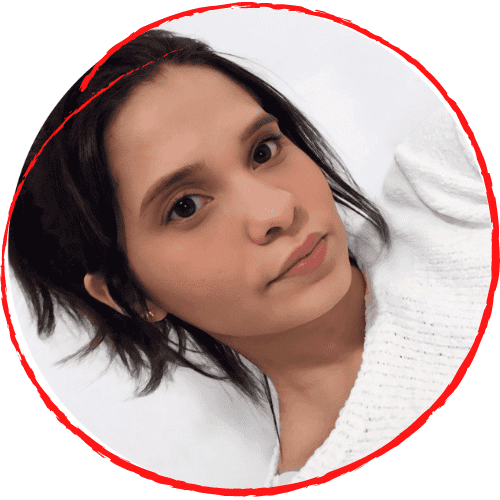
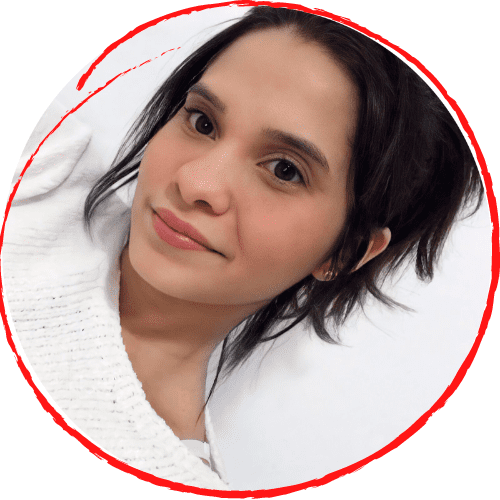
Add js and examples projects

diff --git a/js/isotope.pkgd.min.js b/js/isotope.pkgd.min.js
@@ -1,0 +1,12 @@
+/*!
+ * Isotope PACKAGED v3.0.6
+ *
+ * Licensed GPLv3 for open source use
+ * or Isotope Commercial License for commercial use
+ *
+ * https://isotope.metafizzy.co
+ * Copyright 2010-2018 Metafizzy
+ */
+
+!function(t,e){"function"==typeof define&&define.amd?define("jquery-bridget/jquery-bridget",["jquery"],function(i){return e(t,i)}):"object"==typeof module&&module.exports?module.exports=e(t,require("jquery")):t.jQueryBridget=e(t,t.jQuery)}(window,function(t,e){"use strict";function i(i,s,a){function u(t,e,o){var n,s="$()."+i+'("'+e+'")';return t.each(function(t,u){var h=a.data(u,i);if(!h)return void r(i+" not initialized. Cannot call methods, i.e. "+s);var d=h[e];if(!d||"_"==e.charAt(0))return void r(s+" is not a valid method");var l=d.apply(h,o);n=void 0===n?l:n}),void 0!==n?n:t}function h(t,e){t.each(function(t,o){var n=a.data(o,i);n?(n.option(e),n._init()):(n=new s(o,e),a.data(o,i,n))})}a=a||e||t.jQuery,a&&(s.prototype.option||(s.prototype.option=function(t){a.isPlainObject(t)&&(this.options=a.extend(!0,this.options,t))}),a.fn[i]=function(t){if("string"==typeof t){var e=n.call(arguments,1);return u(this,t,e)}return h(this,t),this},o(a))}function o(t){!t||t&&t.bridget||(t.bridget=i)}var n=Array.prototype.slice,s=t.console,r="undefined"==typeof s?function(){}:function(t){s.error(t)};return o(e||t.jQuery),i}),function(t,e){"function"==typeof define&&define.amd?define("ev-emitter/ev-emitter",e):"object"==typeof module&&module.exports?module.exports=e():t.EvEmitter=e()}("undefined"!=typeof window?window:this,function(){function t(){}var e=t.prototype;return e.on=function(t,e){if(t&&e){var i=this._events=this._events||{},o=i[t]=i[t]||[];return o.indexOf(e)==-1&&o.push(e),this}},e.once=function(t,e){if(t&&e){this.on(t,e);var i=this._onceEvents=this._onceEvents||{},o=i[t]=i[t]||{};return o[e]=!0,this}},e.off=function(t,e){var i=this._events&&this._events[t];if(i&&i.length){var o=i.indexOf(e);return o!=-1&&i.splice(o,1),this}},e.emitEvent=function(t,e){var i=this._events&&this._events[t];if(i&&i.length){i=i.slice(0),e=e||[];for(var o=this._onceEvents&&this._onceEvents[t],n=0;n<i.length;n++){var s=i[n],r=o&&o[s];r&&(this.off(t,s),delete o[s]),s.apply(this,e)}return this}},e.allOff=function(){delete this._events,delete this._onceEvents},t}),function(t,e){"function"==typeof define&&define.amd?define("get-size/get-size",e):"object"==typeof module&&module.exports?module.exports=e():t.getSize=e()}(window,function(){"use strict";function t(t){var e=parseFloat(t),i=t.indexOf("%")==-1&&!isNaN(e);return i&&e}function e(){}function i(){for(var t={width:0,height:0,innerWidth:0,innerHeight:0,outerWidth:0,outerHeight:0},e=0;e<h;e++){var i=u[e];t[i]=0}return t}function o(t){var e=getComputedStyle(t);return e||a("Style returned "+e+". Are you running this code in a hidden iframe on Firefox? See https://bit.ly/getsizebug1"),e}function n(){if(!d){d=!0;var e=document.createElement("div");e.style.width="200px",e.style.padding="1px 2px 3px 4px",e.style.borderStyle="solid",e.style.borderWidth="1px 2px 3px 4px",e.style.boxSizing="border-box";var i=document.body||document.documentElement;i.appendChild(e);var n=o(e);r=200==Math.round(t(n.width)),s.isBoxSizeOuter=r,i.removeChild(e)}}function s(e){if(n(),"string"==typeof e&&(e=document.querySelector(e)),e&&"object"==typeof e&&e.nodeType){var s=o(e);if("none"==s.display)return i();var a={};a.width=e.offsetWidth,a.height=e.offsetHeight;for(var d=a.isBorderBox="border-box"==s.boxSizing,l=0;l<h;l++){var f=u[l],c=s[f],m=parseFloat(c);a[f]=isNaN(m)?0:m}var p=a.paddingLeft+a.paddingRight,y=a.paddingTop+a.paddingBottom,g=a.marginLeft+a.marginRight,v=a.marginTop+a.marginBottom,_=a.borderLeftWidth+a.borderRightWidth,z=a.borderTopWidth+a.borderBottomWidth,I=d&&r,x=t(s.width);x!==!1&&(a.width=x+(I?0:p+_));var S=t(s.height);return S!==!1&&(a.height=S+(I?0:y+z)),a.innerWidth=a.width-(p+_),a.innerHeight=a.height-(y+z),a.outerWidth=a.width+g,a.outerHeight=a.height+v,a}}var r,a="undefined"==typeof console?e:function(t){console.error(t)},u=["paddingLeft","paddingRight","paddingTop","paddingBottom","marginLeft","marginRight","marginTop","marginBottom","borderLeftWidth","borderRightWidth","borderTopWidth","borderBottomWidth"],h=u.length,d=!1;return s}),function(t,e){"use strict";"function"==typeof define&&define.amd?define("desandro-matches-selector/matches-selector",e):"object"==typeof module&&module.exports?module.exports=e():t.matchesSelector=e()}(window,function(){"use strict";var t=function(){var t=window.Element.prototype;if(t.matches)return"matches";if(t.matchesSelector)return"matchesSelector";for(var e=["webkit","moz","ms","o"],i=0;i<e.length;i++){var o=e[i],n=o+"MatchesSelector";if(t[n])return n}}();return function(e,i){return e[t](i)}}),function(t,e){"function"==typeof define&&define.amd?define("fizzy-ui-utils/utils",["desandro-matches-selector/matches-selector"],function(i){return e(t,i)}):"object"==typeof module&&module.exports?module.exports=e(t,require("desandro-matches-selector")):t.fizzyUIUtils=e(t,t.matchesSelector)}(window,function(t,e){var i={};i.extend=function(t,e){for(var i in e)t[i]=e[i];return t},i.modulo=function(t,e){return(t%e+e)%e};var o=Array.prototype.slice;i.makeArray=function(t){if(Array.isArray(t))return t;if(null===t||void 0===t)return[];var e="object"==typeof t&&"number"==typeof t.length;return e?o.call(t):[t]},i.removeFrom=function(t,e){var i=t.indexOf(e);i!=-1&&t.splice(i,1)},i.getParent=function(t,i){for(;t.parentNode&&t!=document.body;)if(t=t.parentNode,e(t,i))return t},i.getQueryElement=function(t){return"string"==typeof t?document.querySelector(t):t},i.handleEvent=function(t){var e="on"+t.type;this[e]&&this[e](t)},i.filterFindElements=function(t,o){t=i.makeArray(t);var n=[];return t.forEach(function(t){if(t instanceof HTMLElement){if(!o)return void n.push(t);e(t,o)&&n.push(t);for(var i=t.querySelectorAll(o),s=0;s<i.length;s++)n.push(i[s])}}),n},i.debounceMethod=function(t,e,i){i=i||100;var o=t.prototype[e],n=e+"Timeout";t.prototype[e]=function(){var t=this[n];clearTimeout(t);var e=arguments,s=this;this[n]=setTimeout(function(){o.apply(s,e),delete s[n]},i)}},i.docReady=function(t){var e=document.readyState;"complete"==e||"interactive"==e?setTimeout(t):document.addEventListener("DOMContentLoaded",t)},i.toDashed=function(t){return t.replace(/(.)([A-Z])/g,function(t,e,i){return e+"-"+i}).toLowerCase()};var n=t.console;return i.htmlInit=function(e,o){i.docReady(function(){var s=i.toDashed(o),r="data-"+s,a=document.querySelectorAll("["+r+"]"),u=document.querySelectorAll(".js-"+s),h=i.makeArray(a).concat(i.makeArray(u)),d=r+"-options",l=t.jQuery;h.forEach(function(t){var i,s=t.getAttribute(r)||t.getAttribute(d);try{i=s&&JSON.parse(s)}catch(a){return void(n&&n.error("Error parsing "+r+" on "+t.className+": "+a))}var u=new e(t,i);l&&l.data(t,o,u)})})},i}),function(t,e){"function"==typeof define&&define.amd?define("outlayer/item",["ev-emitter/ev-emitter","get-size/get-size"],e):"object"==typeof module&&module.exports?module.exports=e(require("ev-emitter"),require("get-size")):(t.Outlayer={},t.Outlayer.Item=e(t.EvEmitter,t.getSize))}(window,function(t,e){"use strict";function i(t){for(var e in t)return!1;return e=null,!0}function o(t,e){t&&(this.element=t,this.layout=e,this.position={x:0,y:0},this._create())}function n(t){return t.replace(/([A-Z])/g,function(t){return"-"+t.toLowerCase()})}var s=document.documentElement.style,r="string"==typeof s.transition?"transition":"WebkitTransition",a="string"==typeof s.transform?"transform":"WebkitTransform",u={WebkitTransition:"webkitTransitionEnd",transition:"transitionend"}[r],h={transform:a,transition:r,transitionDuration:r+"Duration",transitionProperty:r+"Property",transitionDelay:r+"Delay"},d=o.prototype=Object.create(t.prototype);d.constructor=o,d._create=function(){this._transn={ingProperties:{},clean:{},onEnd:{}},this.css({position:"absolute"})},d.handleEvent=function(t){var e="on"+t.type;this[e]&&this[e](t)},d.getSize=function(){this.size=e(this.element)},d.css=function(t){var e=this.element.style;for(var i in t){var o=h[i]||i;e[o]=t[i]}},d.getPosition=function(){var t=getComputedStyle(this.element),e=this.layout._getOption("originLeft"),i=this.layout._getOption("originTop"),o=t[e?"left":"right"],n=t[i?"top":"bottom"],s=parseFloat(o),r=parseFloat(n),a=this.layout.size;o.indexOf("%")!=-1&&(s=s/100*a.width),n.indexOf("%")!=-1&&(r=r/100*a.height),s=isNaN(s)?0:s,r=isNaN(r)?0:r,s-=e?a.paddingLeft:a.paddingRight,r-=i?a.paddingTop:a.paddingBottom,this.position.x=s,this.position.y=r},d.layoutPosition=function(){var t=this.layout.size,e={},i=this.layout._getOption("originLeft"),o=this.layout._getOption("originTop"),n=i?"paddingLeft":"paddingRight",s=i?"left":"right",r=i?"right":"left",a=this.position.x+t[n];e[s]=this.getXValue(a),e[r]="";var u=o?"paddingTop":"paddingBottom",h=o?"top":"bottom",d=o?"bottom":"top",l=this.position.y+t[u];e[h]=this.getYValue(l),e[d]="",this.css(e),this.emitEvent("layout",[this])},d.getXValue=function(t){var e=this.layout._getOption("horizontal");return this.layout.options.percentPosition&&!e?t/this.layout.size.width*100+"%":t+"px"},d.getYValue=function(t){var e=this.layout._getOption("horizontal");return this.layout.options.percentPosition&&e?t/this.layout.size.height*100+"%":t+"px"},d._transitionTo=function(t,e){this.getPosition();var i=this.position.x,o=this.position.y,n=t==this.position.x&&e==this.position.y;if(this.setPosition(t,e),n&&!this.isTransitioning)return void this.layoutPosition();var s=t-i,r=e-o,a={};a.transform=this.getTranslate(s,r),this.transition({to:a,onTransitionEnd:{transform:this.layoutPosition},isCleaning:!0})},d.getTranslate=function(t,e){var i=this.layout._getOption("originLeft"),o=this.layout._getOption("originTop");return t=i?t:-t,e=o?e:-e,"translate3d("+t+"px, "+e+"px, 0)"},d.goTo=function(t,e){this.setPosition(t,e),this.layoutPosition()},d.moveTo=d._transitionTo,d.setPosition=function(t,e){this.position.x=parseFloat(t),this.position.y=parseFloat(e)},d._nonTransition=function(t){this.css(t.to),t.isCleaning&&this._removeStyles(t.to);for(var e in t.onTransitionEnd)t.onTransitionEnd[e].call(this)},d.transition=function(t){if(!parseFloat(this.layout.options.transitionDuration))return void this._nonTransition(t);var e=this._transn;for(var i in t.onTransitionEnd)e.onEnd[i]=t.onTransitionEnd[i];for(i in t.to)e.ingProperties[i]=!0,t.isCleaning&&(e.clean[i]=!0);if(t.from){this.css(t.from);var o=this.element.offsetHeight;o=null}this.enableTransition(t.to),this.css(t.to),this.isTransitioning=!0};var l="opacity,"+n(a);d.enableTransition=function(){if(!this.isTransitioning){var t=this.layout.options.transitionDuration;t="number"==typeof t?t+"ms":t,this.css({transitionProperty:l,transitionDuration:t,transitionDelay:this.staggerDelay||0}),this.element.addEventListener(u,this,!1)}},d.onwebkitTransitionEnd=function(t){this.ontransitionend(t)},d.onotransitionend=function(t){this.ontransitionend(t)};var f={"-webkit-transform":"transform"};d.ontransitionend=function(t){if(t.target===this.element){var e=this._transn,o=f[t.propertyName]||t.propertyName;if(delete e.ingProperties[o],i(e.ingProperties)&&this.disableTransition(),o in e.clean&&(this.element.style[t.propertyName]="",delete e.clean[o]),o in e.onEnd){var n=e.onEnd[o];n.call(this),delete e.onEnd[o]}this.emitEvent("transitionEnd",[this])}},d.disableTransition=function(){this.removeTransitionStyles(),this.element.removeEventListener(u,this,!1),this.isTransitioning=!1},d._removeStyles=function(t){var e={};for(var i in t)e[i]="";this.css(e)};var c={transitionProperty:"",transitionDuration:"",transitionDelay:""};return d.removeTransitionStyles=function(){this.css(c)},d.stagger=function(t){t=isNaN(t)?0:t,this.staggerDelay=t+"ms"},d.removeElem=function(){this.element.parentNode.removeChild(this.element),this.css({display:""}),this.emitEvent("remove",[this])},d.remove=function(){return r&&parseFloat(this.layout.options.transitionDuration)?(this.once("transitionEnd",function(){this.removeElem()}),void this.hide()):void this.removeElem()},d.reveal=function(){delete this.isHidden,this.css({display:""});var t=this.layout.options,e={},i=this.getHideRevealTransitionEndProperty("visibleStyle");e[i]=this.onRevealTransitionEnd,this.transition({from:t.hiddenStyle,to:t.visibleStyle,isCleaning:!0,onTransitionEnd:e})},d.onRevealTransitionEnd=function(){this.isHidden||this.emitEvent("reveal")},d.getHideRevealTransitionEndProperty=function(t){var e=this.layout.options[t];if(e.opacity)return"opacity";for(var i in e)return i},d.hide=function(){this.isHidden=!0,this.css({display:""});var t=this.layout.options,e={},i=this.getHideRevealTransitionEndProperty("hiddenStyle");e[i]=this.onHideTransitionEnd,this.transition({from:t.visibleStyle,to:t.hiddenStyle,isCleaning:!0,onTransitionEnd:e})},d.onHideTransitionEnd=function(){this.isHidden&&(this.css({display:"none"}),this.emitEvent("hide"))},d.destroy=function(){this.css({position:"",left:"",right:"",top:"",bottom:"",transition:"",transform:""})},o}),function(t,e){"use strict";"function"==typeof define&&define.amd?define("outlayer/outlayer",["ev-emitter/ev-emitter","get-size/get-size","fizzy-ui-utils/utils","./item"],function(i,o,n,s){return e(t,i,o,n,s)}):"object"==typeof module&&module.exports?module.exports=e(t,require("ev-emitter"),require("get-size"),require("fizzy-ui-utils"),require("./item")):t.Outlayer=e(t,t.EvEmitter,t.getSize,t.fizzyUIUtils,t.Outlayer.Item)}(window,function(t,e,i,o,n){"use strict";function s(t,e){var i=o.getQueryElement(t);if(!i)return void(u&&u.error("Bad element for "+this.constructor.namespace+": "+(i||t)));this.element=i,h&&(this.$element=h(this.element)),this.options=o.extend({},this.constructor.defaults),this.option(e);var n=++l;this.element.outlayerGUID=n,f[n]=this,this._create();var s=this._getOption("initLayout");s&&this.layout()}function r(t){function e(){t.apply(this,arguments)}return e.prototype=Object.create(t.prototype),e.prototype.constructor=e,e}function a(t){if("number"==typeof t)return t;var e=t.match(/(^\d*\.?\d*)(\w*)/),i=e&&e[1],o=e&&e[2];if(!i.length)return 0;i=parseFloat(i);var n=m[o]||1;return i*n}var u=t.console,h=t.jQuery,d=function(){},l=0,f={};s.namespace="outlayer",s.Item=n,s.defaults={containerStyle:{position:"relative"},initLayout:!0,originLeft:!0,originTop:!0,resize:!0,resizeContainer:!0,transitionDuration:"0.4s",hiddenStyle:{opacity:0,transform:"scale(0.001)"},visibleStyle:{opacity:1,transform:"scale(1)"}};var c=s.prototype;o.extend(c,e.prototype),c.option=function(t){o.extend(this.options,t)},c._getOption=function(t){var e=this.constructor.compatOptions[t];return e&&void 0!==this.options[e]?this.options[e]:this.options[t]},s.compatOptions={initLayout:"isInitLayout",horizontal:"isHorizontal",layoutInstant:"isLayoutInstant",originLeft:"isOriginLeft",originTop:"isOriginTop",resize:"isResizeBound",resizeContainer:"isResizingContainer"},c._create=function(){this.reloadItems(),this.stamps=[],this.stamp(this.options.stamp),o.extend(this.element.style,this.options.containerStyle);var t=this._getOption("resize");t&&this.bindResize()},c.reloadItems=function(){this.items=this._itemize(this.element.children)},c._itemize=function(t){for(var e=this._filterFindItemElements(t),i=this.constructor.Item,o=[],n=0;n<e.length;n++){var s=e[n],r=new i(s,this);o.push(r)}return o},c._filterFindItemElements=function(t){return o.filterFindElements(t,this.options.itemSelector)},c.getItemElements=function(){return this.items.map(function(t){return t.element})},c.layout=function(){this._resetLayout(),this._manageStamps();var t=this._getOption("layoutInstant"),e=void 0!==t?t:!this._isLayoutInited;this.layoutItems(this.items,e),this._isLayoutInited=!0},c._init=c.layout,c._resetLayout=function(){this.getSize()},c.getSize=function(){this.size=i(this.element)},c._getMeasurement=function(t,e){var o,n=this.options[t];n?("string"==typeof n?o=this.element.querySelector(n):n instanceof HTMLElement&&(o=n),this[t]=o?i(o)[e]:n):this[t]=0},c.layoutItems=function(t,e){t=this._getItemsForLayout(t),this._layoutItems(t,e),this._postLayout()},c._getItemsForLayout=function(t){return t.filter(function(t){return!t.isIgnored})},c._layoutItems=function(t,e){if(this._emitCompleteOnItems("layout",t),t&&t.length){var i=[];t.forEach(function(t){var o=this._getItemLayoutPosition(t);o.item=t,o.isInstant=e||t.isLayoutInstant,i.push(o)},this),this._processLayoutQueue(i)}},c._getItemLayoutPosition=function(){return{x:0,y:0}},c._processLayoutQueue=function(t){this.updateStagger(),t.forEach(function(t,e){this._positionItem(t.item,t.x,t.y,t.isInstant,e)},this)},c.updateStagger=function(){var t=this.options.stagger;return null===t||void 0===t?void(this.stagger=0):(this.stagger=a(t),this.stagger)},c._positionItem=function(t,e,i,o,n){o?t.goTo(e,i):(t.stagger(n*this.stagger),t.moveTo(e,i))},c._postLayout=function(){this.resizeContainer()},c.resizeContainer=function(){var t=this._getOption("resizeContainer");if(t){var e=this._getContainerSize();e&&(this._setContainerMeasure(e.width,!0),this._setContainerMeasure(e.height,!1))}},c._getContainerSize=d,c._setContainerMeasure=function(t,e){if(void 0!==t){var i=this.size;i.isBorderBox&&(t+=e?i.paddingLeft+i.paddingRight+i.borderLeftWidth+i.borderRightWidth:i.paddingBottom+i.paddingTop+i.borderTopWidth+i.borderBottomWidth),t=Math.max(t,0),this.element.style[e?"width":"height"]=t+"px"}},c._emitCompleteOnItems=function(t,e){function i(){n.dispatchEvent(t+"Complete",null,[e])}function o(){r++,r==s&&i()}var n=this,s=e.length;if(!e||!s)return void i();var r=0;e.forEach(function(e){e.once(t,o)})},c.dispatchEvent=function(t,e,i){var o=e?[e].concat(i):i;if(this.emitEvent(t,o),h)if(this.$element=this.$element||h(this.element),e){var n=h.Event(e);n.type=t,this.$element.trigger(n,i)}else this.$element.trigger(t,i)},c.ignore=function(t){var e=this.getItem(t);e&&(e.isIgnored=!0)},c.unignore=function(t){var e=this.getItem(t);e&&delete e.isIgnored},c.stamp=function(t){t=this._find(t),t&&(this.stamps=this.stamps.concat(t),t.forEach(this.ignore,this))},c.unstamp=function(t){t=this._find(t),t&&t.forEach(function(t){o.removeFrom(this.stamps,t),this.unignore(t)},this)},c._find=function(t){if(t)return"string"==typeof t&&(t=this.element.querySelectorAll(t)),t=o.makeArray(t)},c._manageStamps=function(){this.stamps&&this.stamps.length&&(this._getBoundingRect(),this.stamps.forEach(this._manageStamp,this))},c._getBoundingRect=function(){var t=this.element.getBoundingClientRect(),e=this.size;this._boundingRect={left:t.left+e.paddingLeft+e.borderLeftWidth,top:t.top+e.paddingTop+e.borderTopWidth,right:t.right-(e.paddingRight+e.borderRightWidth),bottom:t.bottom-(e.paddingBottom+e.borderBottomWidth)}},c._manageStamp=d,c._getElementOffset=function(t){var e=t.getBoundingClientRect(),o=this._boundingRect,n=i(t),s={left:e.left-o.left-n.marginLeft,top:e.top-o.top-n.marginTop,right:o.right-e.right-n.marginRight,bottom:o.bottom-e.bottom-n.marginBottom};return s},c.handleEvent=o.handleEvent,c.bindResize=function(){t.addEventListener("resize",this),this.isResizeBound=!0},c.unbindResize=function(){t.removeEventListener("resize",this),this.isResizeBound=!1},c.onresize=function(){this.resize()},o.debounceMethod(s,"onresize",100),c.resize=function(){this.isResizeBound&&this.needsResizeLayout()&&this.layout()},c.needsResizeLayout=function(){var t=i(this.element),e=this.size&&t;return e&&t.innerWidth!==this.size.innerWidth},c.addItems=function(t){var e=this._itemize(t);return e.length&&(this.items=this.items.concat(e)),e},c.appended=function(t){var e=this.addItems(t);e.length&&(this.layoutItems(e,!0),this.reveal(e))},c.prepended=function(t){var e=this._itemize(t);if(e.length){var i=this.items.slice(0);this.items=e.concat(i),this._resetLayout(),this._manageStamps(),this.layoutItems(e,!0),this.reveal(e),this.layoutItems(i)}},c.reveal=function(t){if(this._emitCompleteOnItems("reveal",t),t&&t.length){var e=this.updateStagger();t.forEach(function(t,i){t.stagger(i*e),t.reveal()})}},c.hide=function(t){if(this._emitCompleteOnItems("hide",t),t&&t.length){var e=this.updateStagger();t.forEach(function(t,i){t.stagger(i*e),t.hide()})}},c.revealItemElements=function(t){var e=this.getItems(t);this.reveal(e)},c.hideItemElements=function(t){var e=this.getItems(t);this.hide(e)},c.getItem=function(t){for(var e=0;e<this.items.length;e++){var i=this.items[e];if(i.element==t)return i}},c.getItems=function(t){t=o.makeArray(t);var e=[];return t.forEach(function(t){var i=this.getItem(t);i&&e.push(i)},this),e},c.remove=function(t){var e=this.getItems(t);this._emitCompleteOnItems("remove",e),e&&e.length&&e.forEach(function(t){t.remove(),o.removeFrom(this.items,t)},this)},c.destroy=function(){var t=this.element.style;t.height="",t.position="",t.width="",this.items.forEach(function(t){t.destroy()}),this.unbindResize();var e=this.element.outlayerGUID;delete f[e],delete this.element.outlayerGUID,h&&h.removeData(this.element,this.constructor.namespace)},s.data=function(t){t=o.getQueryElement(t);var e=t&&t.outlayerGUID;return e&&f[e]},s.create=function(t,e){var i=r(s);return i.defaults=o.extend({},s.defaults),o.extend(i.defaults,e),i.compatOptions=o.extend({},s.compatOptions),i.namespace=t,i.data=s.data,i.Item=r(n),o.htmlInit(i,t),h&&h.bridget&&h.bridget(t,i),i};var m={ms:1,s:1e3};return s.Item=n,s}),function(t,e){"function"==typeof define&&define.amd?define("isotope-layout/js/item",["outlayer/outlayer"],e):"object"==typeof module&&module.exports?module.exports=e(require("outlayer")):(t.Isotope=t.Isotope||{},t.Isotope.Item=e(t.Outlayer))}(window,function(t){"use strict";function e(){t.Item.apply(this,arguments)}var i=e.prototype=Object.create(t.Item.prototype),o=i._create;i._create=function(){this.id=this.layout.itemGUID++,o.call(this),this.sortData={}},i.updateSortData=function(){if(!this.isIgnored){this.sortData.id=this.id,this.sortData["original-order"]=this.id,this.sortData.random=Math.random();var t=this.layout.options.getSortData,e=this.layout._sorters;for(var i in t){var o=e[i];this.sortData[i]=o(this.element,this)}}};var n=i.destroy;return i.destroy=function(){n.apply(this,arguments),this.css({display:""})},e}),function(t,e){"function"==typeof define&&define.amd?define("isotope-layout/js/layout-mode",["get-size/get-size","outlayer/outlayer"],e):"object"==typeof module&&module.exports?module.exports=e(require("get-size"),require("outlayer")):(t.Isotope=t.Isotope||{},t.Isotope.LayoutMode=e(t.getSize,t.Outlayer))}(window,function(t,e){"use strict";function i(t){this.isotope=t,t&&(this.options=t.options[this.namespace],this.element=t.element,this.items=t.filteredItems,this.size=t.size)}var o=i.prototype,n=["_resetLayout","_getItemLayoutPosition","_manageStamp","_getContainerSize","_getElementOffset","needsResizeLayout","_getOption"];return n.forEach(function(t){o[t]=function(){return e.prototype[t].apply(this.isotope,arguments)}}),o.needsVerticalResizeLayout=function(){var e=t(this.isotope.element),i=this.isotope.size&&e;return i&&e.innerHeight!=this.isotope.size.innerHeight},o._getMeasurement=function(){this.isotope._getMeasurement.apply(this,arguments)},o.getColumnWidth=function(){this.getSegmentSize("column","Width")},o.getRowHeight=function(){this.getSegmentSize("row","Height")},o.getSegmentSize=function(t,e){var i=t+e,o="outer"+e;if(this._getMeasurement(i,o),!this[i]){var n=this.getFirstItemSize();this[i]=n&&n[o]||this.isotope.size["inner"+e]}},o.getFirstItemSize=function(){var e=this.isotope.filteredItems[0];return e&&e.element&&t(e.element)},o.layout=function(){this.isotope.layout.apply(this.isotope,arguments)},o.getSize=function(){this.isotope.getSize(),this.size=this.isotope.size},i.modes={},i.create=function(t,e){function n(){i.apply(this,arguments)}return n.prototype=Object.create(o),n.prototype.constructor=n,e&&(n.options=e),n.prototype.namespace=t,i.modes[t]=n,n},i}),function(t,e){"function"==typeof define&&define.amd?define("masonry-layout/masonry",["outlayer/outlayer","get-size/get-size"],e):"object"==typeof module&&module.exports?module.exports=e(require("outlayer"),require("get-size")):t.Masonry=e(t.Outlayer,t.getSize)}(window,function(t,e){var i=t.create("masonry");i.compatOptions.fitWidth="isFitWidth";var o=i.prototype;return o._resetLayout=function(){this.getSize(),this._getMeasurement("columnWidth","outerWidth"),this._getMeasurement("gutter","outerWidth"),this.measureColumns(),this.colYs=[];for(var t=0;t<this.cols;t++)this.colYs.push(0);this.maxY=0,this.horizontalColIndex=0},o.measureColumns=function(){if(this.getContainerWidth(),!this.columnWidth){var t=this.items[0],i=t&&t.element;this.columnWidth=i&&e(i).outerWidth||this.containerWidth}var o=this.columnWidth+=this.gutter,n=this.containerWidth+this.gutter,s=n/o,r=o-n%o,a=r&&r<1?"round":"floor";s=Math[a](s),this.cols=Math.max(s,1)},o.getContainerWidth=function(){var t=this._getOption("fitWidth"),i=t?this.element.parentNode:this.element,o=e(i);this.containerWidth=o&&o.innerWidth},o._getItemLayoutPosition=function(t){t.getSize();var e=t.size.outerWidth%this.columnWidth,i=e&&e<1?"round":"ceil",o=Math[i](t.size.outerWidth/this.columnWidth);o=Math.min(o,this.cols);for(var n=this.options.horizontalOrder?"_getHorizontalColPosition":"_getTopColPosition",s=this[n](o,t),r={x:this.columnWidth*s.col,y:s.y},a=s.y+t.size.outerHeight,u=o+s.col,h=s.col;h<u;h++)this.colYs[h]=a;return r},o._getTopColPosition=function(t){var e=this._getTopColGroup(t),i=Math.min.apply(Math,e);return{col:e.indexOf(i),y:i}},o._getTopColGroup=function(t){if(t<2)return this.colYs;for(var e=[],i=this.cols+1-t,o=0;o<i;o++)e[o]=this._getColGroupY(o,t);return e},o._getColGroupY=function(t,e){if(e<2)return this.colYs[t];var i=this.colYs.slice(t,t+e);return Math.max.apply(Math,i)},o._getHorizontalColPosition=function(t,e){var i=this.horizontalColIndex%this.cols,o=t>1&&i+t>this.cols;i=o?0:i;var n=e.size.outerWidth&&e.size.outerHeight;return this.horizontalColIndex=n?i+t:this.horizontalColIndex,{col:i,y:this._getColGroupY(i,t)}},o._manageStamp=function(t){var i=e(t),o=this._getElementOffset(t),n=this._getOption("originLeft"),s=n?o.left:o.right,r=s+i.outerWidth,a=Math.floor(s/this.columnWidth);a=Math.max(0,a);var u=Math.floor(r/this.columnWidth);u-=r%this.columnWidth?0:1,u=Math.min(this.cols-1,u);for(var h=this._getOption("originTop"),d=(h?o.top:o.bottom)+i.outerHeight,l=a;l<=u;l++)this.colYs[l]=Math.max(d,this.colYs[l])},o._getContainerSize=function(){this.maxY=Math.max.apply(Math,this.colYs);var t={height:this.maxY};return this._getOption("fitWidth")&&(t.width=this._getContainerFitWidth()),t},o._getContainerFitWidth=function(){for(var t=0,e=this.cols;--e&&0===this.colYs[e];)t++;return(this.cols-t)*this.columnWidth-this.gutter},o.needsResizeLayout=function(){var t=this.containerWidth;return this.getContainerWidth(),t!=this.containerWidth},i}),function(t,e){"function"==typeof define&&define.amd?define("isotope-layout/js/layout-modes/masonry",["../layout-mode","masonry-layout/masonry"],e):"object"==typeof module&&module.exports?module.exports=e(require("../layout-mode"),require("masonry-layout")):e(t.Isotope.LayoutMode,t.Masonry)}(window,function(t,e){"use strict";var i=t.create("masonry"),o=i.prototype,n={_getElementOffset:!0,layout:!0,_getMeasurement:!0};for(var s in e.prototype)n[s]||(o[s]=e.prototype[s]);var r=o.measureColumns;o.measureColumns=function(){this.items=this.isotope.filteredItems,r.call(this)};var a=o._getOption;return o._getOption=function(t){return"fitWidth"==t?void 0!==this.options.isFitWidth?this.options.isFitWidth:this.options.fitWidth:a.apply(this.isotope,arguments)},i}),function(t,e){"function"==typeof define&&define.amd?define("isotope-layout/js/layout-modes/fit-rows",["../layout-mode"],e):"object"==typeof exports?module.exports=e(require("../layout-mode")):e(t.Isotope.LayoutMode)}(window,function(t){"use strict";var e=t.create("fitRows"),i=e.prototype;return i._resetLayout=function(){this.x=0,this.y=0,this.maxY=0,this._getMeasurement("gutter","outerWidth")},i._getItemLayoutPosition=function(t){t.getSize();var e=t.size.outerWidth+this.gutter,i=this.isotope.size.innerWidth+this.gutter;0!==this.x&&e+this.x>i&&(this.x=0,this.y=this.maxY);var o={x:this.x,y:this.y};return this.maxY=Math.max(this.maxY,this.y+t.size.outerHeight),this.x+=e,o},i._getContainerSize=function(){return{height:this.maxY}},e}),function(t,e){"function"==typeof define&&define.amd?define("isotope-layout/js/layout-modes/vertical",["../layout-mode"],e):"object"==typeof module&&module.exports?module.exports=e(require("../layout-mode")):e(t.Isotope.LayoutMode)}(window,function(t){"use strict";var e=t.create("vertical",{horizontalAlignment:0}),i=e.prototype;return i._resetLayout=function(){this.y=0},i._getItemLayoutPosition=function(t){t.getSize();var e=(this.isotope.size.innerWidth-t.size.outerWidth)*this.options.horizontalAlignment,i=this.y;return this.y+=t.size.outerHeight,{x:e,y:i}},i._getContainerSize=function(){return{height:this.y}},e}),function(t,e){"function"==typeof define&&define.amd?define(["outlayer/outlayer","get-size/get-size","desandro-matches-selector/matches-selector","fizzy-ui-utils/utils","isotope-layout/js/item","isotope-layout/js/layout-mode","isotope-layout/js/layout-modes/masonry","isotope-layout/js/layout-modes/fit-rows","isotope-layout/js/layout-modes/vertical"],function(i,o,n,s,r,a){return e(t,i,o,n,s,r,a)}):"object"==typeof module&&module.exports?module.exports=e(t,require("outlayer"),require("get-size"),require("desandro-matches-selector"),require("fizzy-ui-utils"),require("isotope-layout/js/item"),require("isotope-layout/js/layout-mode"),require("isotope-layout/js/layout-modes/masonry"),require("isotope-layout/js/layout-modes/fit-rows"),require("isotope-layout/js/layout-modes/vertical")):t.Isotope=e(t,t.Outlayer,t.getSize,t.matchesSelector,t.fizzyUIUtils,t.Isotope.Item,t.Isotope.LayoutMode)}(window,function(t,e,i,o,n,s,r){function a(t,e){return function(i,o){for(var n=0;n<t.length;n++){var s=t[n],r=i.sortData[s],a=o.sortData[s];if(r>a||r<a){var u=void 0!==e[s]?e[s]:e,h=u?1:-1;return(r>a?1:-1)*h}}return 0}}var u=t.jQuery,h=String.prototype.trim?function(t){return t.trim()}:function(t){return t.replace(/^\s+|\s+$/g,"")},d=e.create("isotope",{layoutMode:"masonry",isJQueryFiltering:!0,sortAscending:!0});d.Item=s,d.LayoutMode=r;var l=d.prototype;l._create=function(){this.itemGUID=0,this._sorters={},this._getSorters(),e.prototype._create.call(this),this.modes={},this.filteredItems=this.items,this.sortHistory=["original-order"];for(var t in r.modes)this._initLayoutMode(t)},l.reloadItems=function(){this.itemGUID=0,e.prototype.reloadItems.call(this)},l._itemize=function(){for(var t=e.prototype._itemize.apply(this,arguments),i=0;i<t.length;i++){var o=t[i];o.id=this.itemGUID++}return this._updateItemsSortData(t),t},l._initLayoutMode=function(t){var e=r.modes[t],i=this.options[t]||{};this.options[t]=e.options?n.extend(e.options,i):i,this.modes[t]=new e(this)},l.layout=function(){return!this._isLayoutInited&&this._getOption("initLayout")?void this.arrange():void this._layout()},l._layout=function(){var t=this._getIsInstant();this._resetLayout(),this._manageStamps(),this.layoutItems(this.filteredItems,t),this._isLayoutInited=!0},l.arrange=function(t){this.option(t),this._getIsInstant();var e=this._filter(this.items);this.filteredItems=e.matches,this._bindArrangeComplete(),this._isInstant?this._noTransition(this._hideReveal,[e]):this._hideReveal(e),this._sort(),this._layout()},l._init=l.arrange,l._hideReveal=function(t){this.reveal(t.needReveal),this.hide(t.needHide)},l._getIsInstant=function(){var t=this._getOption("layoutInstant"),e=void 0!==t?t:!this._isLayoutInited;return this._isInstant=e,e},l._bindArrangeComplete=function(){function t(){e&&i&&o&&n.dispatchEvent("arrangeComplete",null,[n.filteredItems])}var e,i,o,n=this;this.once("layoutComplete",function(){e=!0,t()}),this.once("hideComplete",function(){i=!0,t()}),this.once("revealComplete",function(){o=!0,t()})},l._filter=function(t){var e=this.options.filter;e=e||"*";for(var i=[],o=[],n=[],s=this._getFilterTest(e),r=0;r<t.length;r++){var a=t[r];if(!a.isIgnored){var u=s(a);u&&i.push(a),u&&a.isHidden?o.push(a):u||a.isHidden||n.push(a)}}return{matches:i,needReveal:o,needHide:n}},l._getFilterTest=function(t){return u&&this.options.isJQueryFiltering?function(e){return u(e.element).is(t);
+}:"function"==typeof t?function(e){return t(e.element)}:function(e){return o(e.element,t)}},l.updateSortData=function(t){var e;t?(t=n.makeArray(t),e=this.getItems(t)):e=this.items,this._getSorters(),this._updateItemsSortData(e)},l._getSorters=function(){var t=this.options.getSortData;for(var e in t){var i=t[e];this._sorters[e]=f(i)}},l._updateItemsSortData=function(t){for(var e=t&&t.length,i=0;e&&i<e;i++){var o=t[i];o.updateSortData()}};var f=function(){function t(t){if("string"!=typeof t)return t;var i=h(t).split(" "),o=i[0],n=o.match(/^\[(.+)\]$/),s=n&&n[1],r=e(s,o),a=d.sortDataParsers[i[1]];return t=a?function(t){return t&&a(r(t))}:function(t){return t&&r(t)}}function e(t,e){return t?function(e){return e.getAttribute(t)}:function(t){var i=t.querySelector(e);return i&&i.textContent}}return t}();d.sortDataParsers={parseInt:function(t){return parseInt(t,10)},parseFloat:function(t){return parseFloat(t)}},l._sort=function(){if(this.options.sortBy){var t=n.makeArray(this.options.sortBy);this._getIsSameSortBy(t)||(this.sortHistory=t.concat(this.sortHistory));var e=a(this.sortHistory,this.options.sortAscending);this.filteredItems.sort(e)}},l._getIsSameSortBy=function(t){for(var e=0;e<t.length;e++)if(t[e]!=this.sortHistory[e])return!1;return!0},l._mode=function(){var t=this.options.layoutMode,e=this.modes[t];if(!e)throw new Error("No layout mode: "+t);return e.options=this.options[t],e},l._resetLayout=function(){e.prototype._resetLayout.call(this),this._mode()._resetLayout()},l._getItemLayoutPosition=function(t){return this._mode()._getItemLayoutPosition(t)},l._manageStamp=function(t){this._mode()._manageStamp(t)},l._getContainerSize=function(){return this._mode()._getContainerSize()},l.needsResizeLayout=function(){return this._mode().needsResizeLayout()},l.appended=function(t){var e=this.addItems(t);if(e.length){var i=this._filterRevealAdded(e);this.filteredItems=this.filteredItems.concat(i)}},l.prepended=function(t){var e=this._itemize(t);if(e.length){this._resetLayout(),this._manageStamps();var i=this._filterRevealAdded(e);this.layoutItems(this.filteredItems),this.filteredItems=i.concat(this.filteredItems),this.items=e.concat(this.items)}},l._filterRevealAdded=function(t){var e=this._filter(t);return this.hide(e.needHide),this.reveal(e.matches),this.layoutItems(e.matches,!0),e.matches},l.insert=function(t){var e=this.addItems(t);if(e.length){var i,o,n=e.length;for(i=0;i<n;i++)o=e[i],this.element.appendChild(o.element);var s=this._filter(e).matches;for(i=0;i<n;i++)e[i].isLayoutInstant=!0;for(this.arrange(),i=0;i<n;i++)delete e[i].isLayoutInstant;this.reveal(s)}};var c=l.remove;return l.remove=function(t){t=n.makeArray(t);var e=this.getItems(t);c.call(this,t);for(var i=e&&e.length,o=0;i&&o<i;o++){var s=e[o];n.removeFrom(this.filteredItems,s)}},l.shuffle=function(){for(var t=0;t<this.items.length;t++){var e=this.items[t];e.sortData.random=Math.random()}this.options.sortBy="random",this._sort(),this._layout()},l._noTransition=function(t,e){var i=this.options.transitionDuration;this.options.transitionDuration=0;var o=t.apply(this,e);return this.options.transitionDuration=i,o},l.getFilteredItemElements=function(){return this.filteredItems.map(function(t){return t.element})},d});

diff --git a/index.html b/index.html
@@ -43,7 +43,7 @@
               </div>
   
               <div class="column-2 image">
-                <img src="./assets/profile2.png" class="img-element z-index" alt="Profile" />
+                <img src="./assets/profile.png" class="img-element z-index" alt="Profile" />
               </div>
             </div>
           </div>
@@ -122,9 +122,86 @@
                     <button class="filter-btn">Vue.js</button>
                 </div>
             </div>
+
+            <div class="grid">
+                <div class="grid-item">
+                    <div class="gallery-image">
+                        <img src="./assets/port1.jpeg" alt="Example1">
+                        <div class="img-overlay">
+                            <div class="plus"></div>
+                            <div class="img-description">
+                                <h3>Projeto</h3>
+                                <h5>Site Projeto</h5>
+                            </div>
+                        </div>
+                    </div>
+                </div>
+                <div class="grid-item">
+                    <div class="gallery-image">
+                        <img src="./assets/port2.png" alt="Example2">
+                        <div class="img-overlay">
+                            <div class="plus"></div>
+                            <div class="img-description">
+                                <h3>Projeto</h3>
+                                <h5>Site Projeto</h5>
+                            </div>
+                        </div>
+                    </div>
+                </div>
+                <div class="grid-item">
+                    <div class="gallery-image">
+                        <img src="./assets/port3.png" alt="Example3">
+                        <div class="img-overlay">
+                            <div class="plus"></div>
+                            <div class="img-description">
+                                <h3>Projeto</h3>
+                                <h5>Site Projeto</h5>
+                            </div>
+                        </div>
+                    </div>
+                </div>
+                <div class="grid-item">
+                    <div class="gallery-image">
+                        <img src="./assets/port4.png" alt="Example4">
+                        <div class="img-overlay">
+                            <div class="plus"></div>
+                            <div class="img-description">
+                                <h3>Projeto</h3>
+                                <h5>Site Projeto</h5>
+                            </div>
+                        </div>
+                    </div>
+                </div>
+                <div class="grid-item">
+                    <div class="gallery-image">
+                        <img src="./assets/port5.jpeg" alt="Example5">
+                        <div class="img-overlay">
+                            <div class="plus"></div>
+                            <div class="img-description">
+                                <h3>Projeto</h3>
+                                <h5>Site Projeto</h5>
+                            </div>
+                        </div>
+                    </div>
+                </div>
+                <div class="grid-item">
+                    <div class="gallery-image">
+                        <img src="./assets/port6.jpeg" alt="Example6">
+                        <div class="img-overlay">
+                            <div class="plus"></div>
+                            <div class="img-description">
+                                <h3>Projeto</h3>
+                                <h5>Site Projeto</h5>
+                            </div>
+                        </div>
+                    </div>
+                </div>
+            </div>
         </div>
     </section>
 </main>
+<script src="https://cdnjs.cloudflare.com/ajax/libs/jquery/3.6.0/jquery.min.js"></script>
+<script src="./js/isotope.pkgd.min.js"></script>
 <script src="./js/app.js"></script>
 </body>
 </html>

diff --git a/css/style.css b/css/style.css
@@ -334,6 +334,36 @@ margin-bottom: 1.7rem;
     background-color: var(--light-one);
     color: var(--main-color);
 }
+
+.grid {
+    width: 100%;
+    margin: 1.5rem 0;
+}
+
+.grid-item {
+    width: 33.33%;
+    padding: 1rem 1.2rem;
+    display: flex;
+    justify-content: center;
+}
+
+.gallery-image {
+    position: relative;
+    overflow: hidden;
+    border-radius: 16px;
+    height: 330px;
+    width: 100%;
+}
+
+.gallery-image img {
+    position: absolute;
+    height: 115%;
+    width: initial;
+    top: 50%;
+    left: 50%;
+    transform: translate(-50%, -50%);
+    cursor: pointer;
+}
 /* end portfolio */
 
 

diff --git a/js/app.js b/js/app.js
@@ -1,0 +1,5 @@
+$(".grid").isotope({
+    itemSelector: ".grid-item",
+    layoutMode: "fitRows",
+    transitionDuration: "0.6s",
+  });
